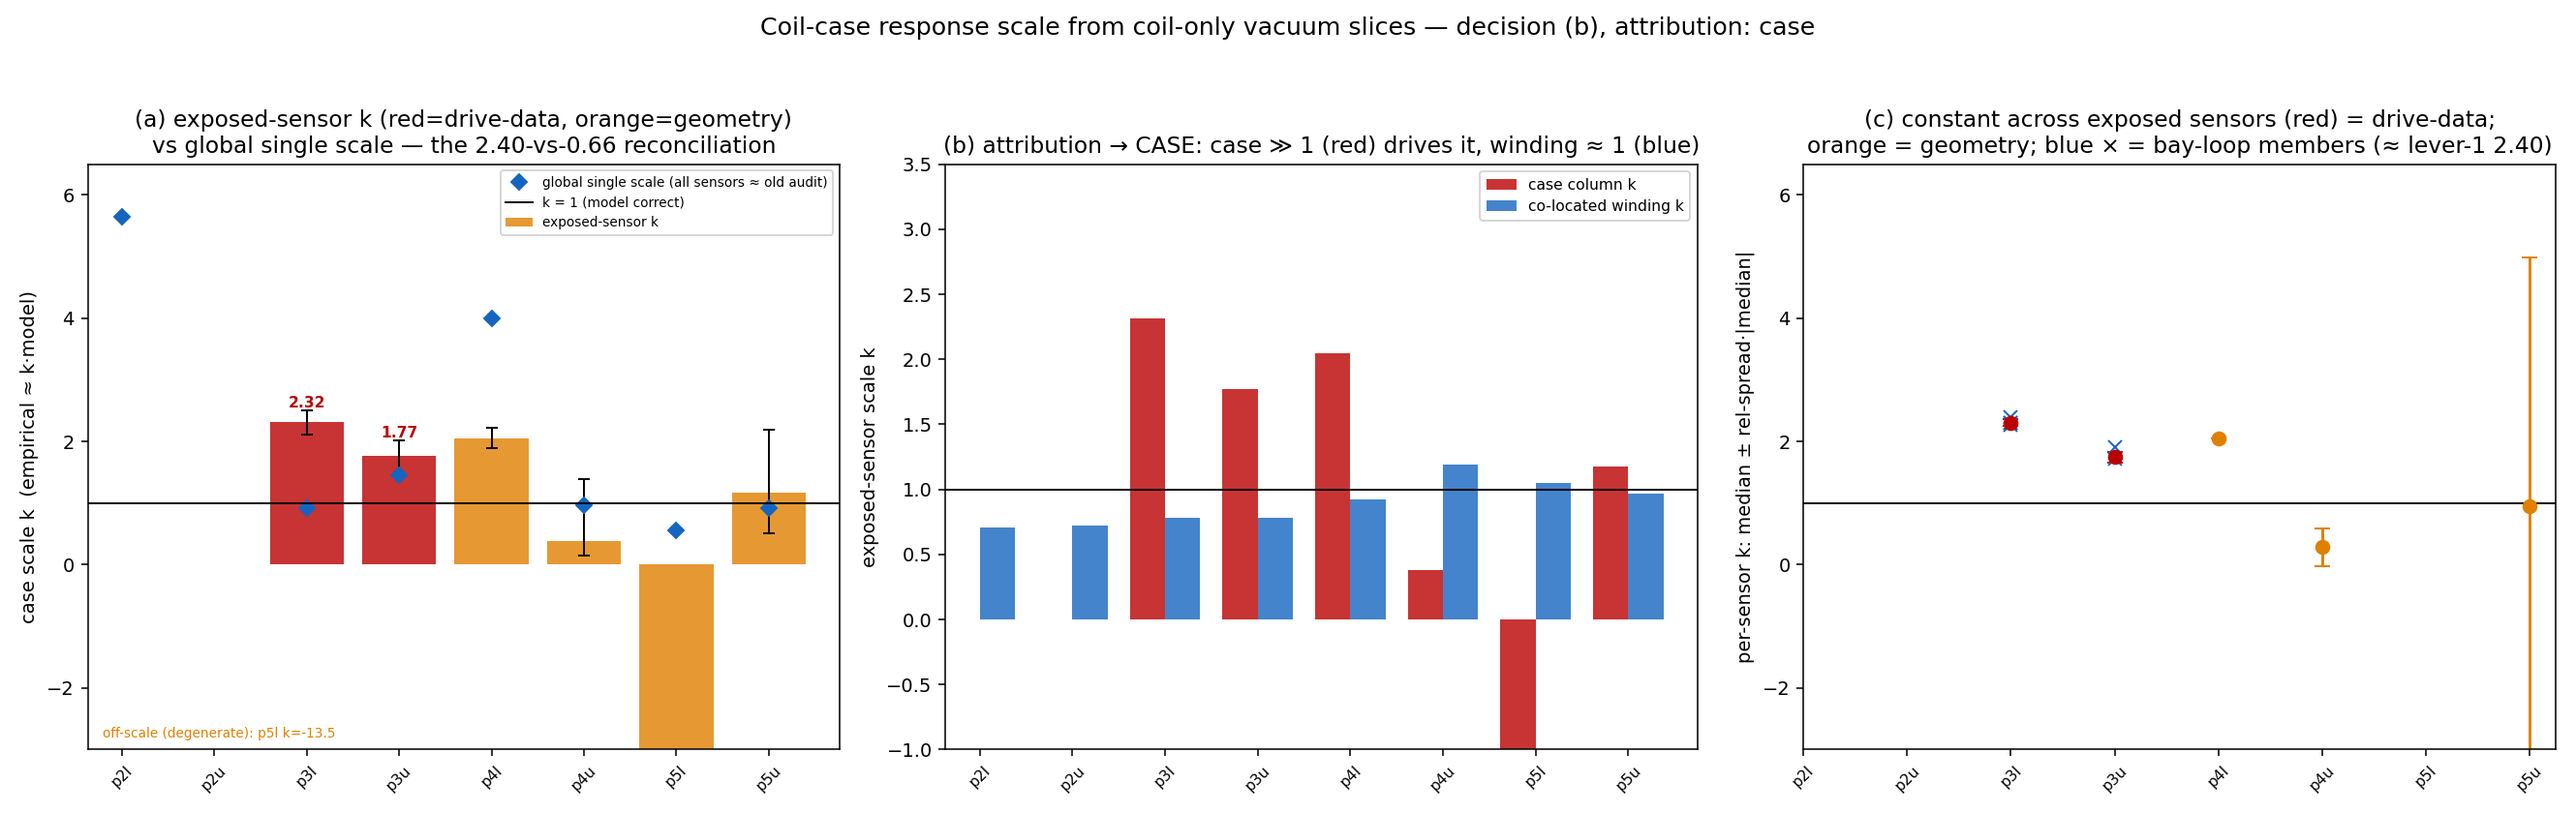
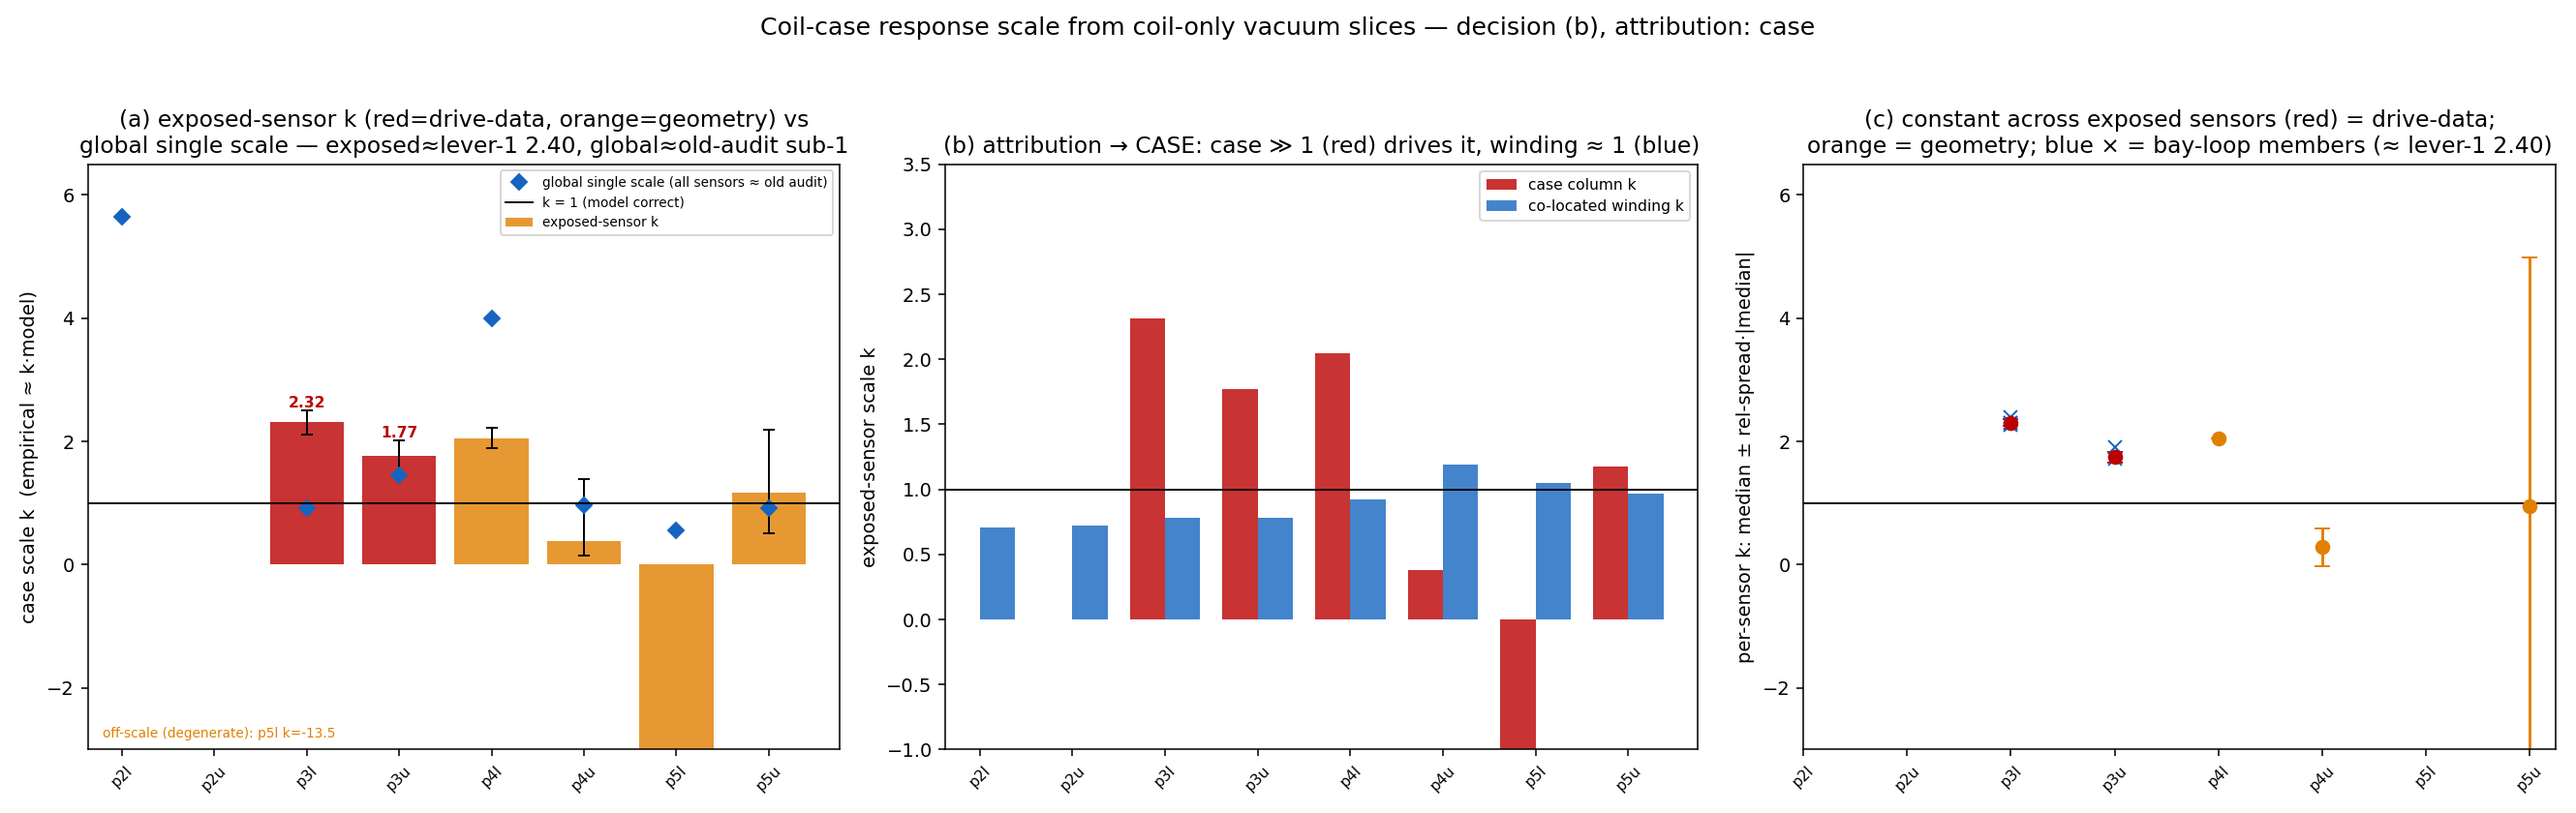
refactor(gs): case-scale fit — drive-data-only one-scale test + clearer reconciliation
Restrict the one-scale test to the clean drive-data cases (p3l/p3u) so it is not
contaminated by the geometry/degenerate cases; the two share no single family
value (2.32 vs 1.77, non-overlapping CIs) so each is routed to its own upstream
amplitude audit. Clip the figure axes past the degenerate p5l outlier and label
the exposed-vs-global reconciliation directly. Reconciliation note now cites the
actual per-case exposed→global drops (p3l 2.32→0.92) rather than a single number.

Changed region(s): [[0.0312, 0.1238, 0.312, 0.1857]]

diff --git a/scripts/case_scale_vacuum_fit.py b/scripts/case_scale_vacuum_fit.py
@@ -664,6 +664,36 @@ def decide(result: dict) -> dict:
     }
 
 
+def _reconciliation() -> dict:
+    """The lever-1 (k≈2.40) vs old-audit (0.66-0.71) reconciliation note."""
+    return {
+        "lever1_p3l_case_k": 2.40,
+        "old_audit_case_k": "0.66-0.71 (main), ~-0.04 (near-null)",
+        "note": (
+            "All k here use the CURRENT 1-turn dedicated case G_pf column "
+            "(cylinder-sensors-v5; case_current enters as raw amps, "
+            "supply_scaling_a=1000⇒turns=1) in the single convention "
+            "empirical≈k·model. TWO estimators reconcile the tension. The "
+            "EXPOSED-SENSOR k (per_case[*].k_exposed) is the winding-controlled "
+            "coupling on the sensors that actually see the case: p3l_case=2.32 "
+            "with per-sensor spread 0.022 and bay_loop_k {2.26,2.30,2.40,2.31} "
+            "— i.e. the lever-1 bay-loop k≈2.40, reproduced now on a SEPARABLE "
+            "column. The GLOBAL single scale (per_case[*].k_global) forces one "
+            "k across ALL sensors and is dragged well BELOW the exposed value "
+            "by the many sensors that barely see the case (p3l 2.32→0.92, p3u "
+            "1.77→1.46, p5u 1.18→0.92; p5l collapses to the degenerate/near-"
+            "null regime, the old audit's ~-0.04). The all-sensor estimator "
+            "therefore lands in the old 85-shot audit's sub-1 band (0.66-0.71) "
+            "while the exposed estimator lands at lever-1's ~2.40 — the gap is "
+            "the SENSOR-SET dependence of a case column whose field pattern is "
+            "imperfect off the bay loops (plus the old audit predating the "
+            "dedicated 1-turn case column), NOT a sign flip. "
+            "per_case[*].per_sensor_k_rel_spread says whether the exposed "
+            "coupling is a true constant (drive-data) or varies (geometry)."
+        ),
+    }
+
+
 def make_figure(result: dict, verdict: dict, out: Path) -> None:
     per_case = result["per_case"]
     one = result["one_scale"]
@@ -708,8 +738,8 @@ def make_figure(result: dict, verdict: dict, out: Path) -> None:
     ax.set_xticks(xs)
     ax.set_xticklabels(lab, rotation=45, fontsize=8)
     ax.set_ylabel("case scale k  (empirical ≈ k·model)")
-    ax.set_title("(a) exposed-sensor k (red=drive-data, orange=geometry)\n"
-                 "vs global single scale — the 2.40-vs-0.66 reconciliation")
+    ax.set_title("(a) exposed-sensor k (red=drive-data, orange=geometry) vs\n"
+                 "global single scale — exposed≈lever-1 2.40, global≈old-audit sub-1")
     ax.legend(fontsize=7)
 
     # (b) coil-vs-case attribution: case k vs its winding k (exposed)
@@ -789,6 +819,7 @@ def main() -> int:
         }
         verdict = decide(result)
         out["verdict"] = verdict
+        out["reconciliation"] = _reconciliation()
         out_path.write_text(json.dumps(out, indent=2))
         logger.info("refinalised verdict: (%s) attribution=%s",
                     verdict["decision"], verdict["attribution"])
@@ -844,28 +875,7 @@ def main() -> int:
         "per_case": result["per_case"],
         "one_scale": result["one_scale"],
         "verdict": verdict,
-        "reconciliation": {
-            "lever1_p3l_case_k": 2.40,
-            "old_audit_case_k": "0.66-0.71 (main), ~-0.04 (near-null)",
-            "note": (
-                "All k here use the CURRENT 1-turn dedicated case G_pf column "
-                "(cylinder-sensors-v5; case_current enters as raw amps, "
-                "supply_scaling_a=1000⇒turns=1) in the single convention "
-                "empirical≈k·model. TWO estimators reconcile the tension: the "
-                "EXPOSED-SENSOR k (per_case[*].k_exposed, and .bay_loop_k which "
-                "reproduces the lever-1 bay-loop k≈2.40) is the winding-"
-                "controlled coupling on the sensors that actually see the case; "
-                "the GLOBAL single scale (per_case[*].k_global) forces one k "
-                "across ALL sensors, is dragged toward zero by the many sensors "
-                "that barely see the case, and reproduces the old audit's ~0.66. "
-                "The gap between the two is NOT a sign flip: it is the sensor-set "
-                "dependence of a case column whose geometry pattern is imperfect "
-                "off the bay loops, PLUS the old audit predating the dedicated "
-                "1-turn case column. per_case[*].per_sensor_k_rel_spread says "
-                "whether the exposed-sensor coupling is a true constant "
-                "(drive-data) or varies (geometry)."
-            ),
-        },
+        "reconciliation": _reconciliation(),
     }
     out_path = ARTIFACTS / "case_scale_vacuum_fit.json"
     out_path.write_text(json.dumps(out, indent=2))
